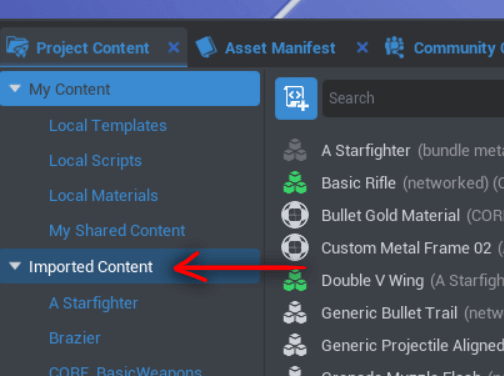
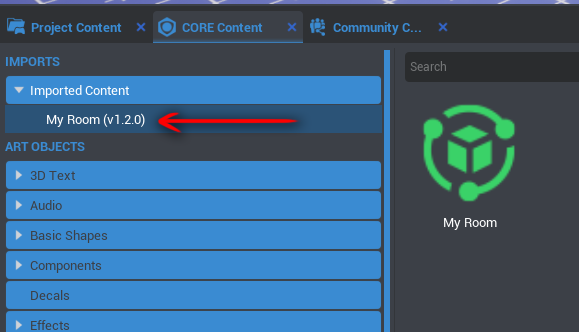
update Community Content page
Updated the CC page to reflect the changes to project & template flow in the editor.

diff --git a/src/getting_started/community_content.md b/src/getting_started/community_content.md
@@ -25,28 +25,32 @@ The goal is to bring your ideas to life as fast as possible, so that nothing sta
 
 Open up the **Community Content** tab by clicking on it. If the tab isn't already open for you, navigate to `View -> Community Content` in the top menu bar to open the window.
 
-![Community Content Template](../img/getting_started/communitycontent.png "image_tooltip"){: .center}
+![Community Content Template](../img/getting_started/communitycontent.png "Community Content Template"){: .center}
 
 Here you can browse the content or search by username or key words.
 
 Click the blue `+` button on an asset to import the template. It will likely ask you to save your project first.
 
-![Community Content Template](../img/EditorManual/Art/CCtemplate.png "image_tooltip"){: .center}
+![Community Content Template](../img/getting_started/CCtemplate.png "Community Content Template"){: .center}
 
-You can then see the template you chose in your own **Project Content** folder.
-`Project Content -> Imported Content`.
+You can then see the template you downloaded in your the **CORE Content** folder.
+`CORE Content -> Imported Content`.
 
-![Imported Content](../img/getting_started/ProjectContent_importedcontent.png "image_tooltip"){: .center}
+![Imported Content](../img/getting_started/ProjectContent_importedcontent.png "Imported Template"){: .center}
 
 #### Using Your Imported Content
 
-From within the Imported Content section, you will find any and all templates that you download from Community Content.
+From within the Imported Content section of CORE Content, you will find any and all templates that you download from Community Content.
 
-When selecting a template from the menu on the left, the contents of that template will show up on the right. This will list all the parts of a template including scripts, visual effects, and materials.
+To use this in your game, just drag the **green**{: style="color: green"} template object (in this case called "My Room") into your project Hierarchy.
 
-The green object is the main template, and the part you should drag into the Hierarchy or viewport for use.
+Once you've done this, you will have a **blue**{: style="color: blue"} object in your Hierarchy, which is an instance of the template you downloaded! You're now set to modify it and use it however you like.
 
-![Imported Content Assets](../img/getting_started/ProjectContent_importedcontentasset.png "image_tooltip"){: .center}
+CORE also then adds the template and its contents to your Project Content folder.
+
+![Imported Content Asset](../img/getting_started/ProjectContent_importedcontentasset.png "Imported Template Asset"){: .center}
+
+Within the template, in the section called "Dependencies", you can find all the parts that make up the template and that it uses. These will be things like scripts, objects, and custom materials.
 
 ----
 
@@ -64,4 +68,6 @@ Another way to speed ahead the creation of your project is to **start with an en
 
 Some games published on the CORE website allow other users to download them, enabling you to move things around and change the game however you would like.
 
-To download a game by somebody else and add your own personal flair, go to the game's page on our website. If the person who published the game allowed it to be publicly editable, then there will be an `Edit` button on the page. Clicking this will download the whole game project to your computer, allowing you to open it up and edit it from within the CORE editor!
+To download a game by somebody else and add your own personal flair, go to the CREATE menu of the CORE editor. When you cick create, you will have the option to select a base game type from **CORE Games**, or select **Community Games** to see what games other users have published as public for the world to modify.  
+
+Pick a game by clicking it, give it a new project name, click download, and you're ready to go!
